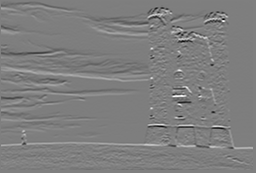
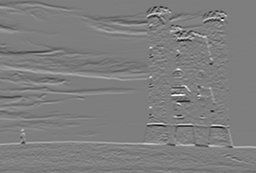
task 4 done

diff --git a/task4/seam_carving.py b/task4/seam_carving.py
@@ -84,25 +84,19 @@ def create_seam_mask(accumE):
     return Mask
 
 
-# ------------------------------------------------------------------------------
-# Main Bereich
-# ------------------------------------------------------------------------------
-if __name__ == '__main__':
+def carve(path, number_of_seams_to_remove):
     # --------------------------------------------------------------------------
     # Initalisierung
     # --------------------------------------------------------------------------
     # lädt das Bild
-    img = mpimage.imread('bilder/tower.jpg')  # 'bilder/bird.jpg')
+    img = mpimage.imread('bilder/{}.jpg'.format(path))  # 'bilder/bird.jpg')
     # erstellt eine globale Maske
     # In der Maske sollen alle Pfade gespeichert werden die herrausgeschnitten wurden
     # An Anfang ist noch nichts herrausgeschnitten, also ist die Maske komplett False
     global_mask = np.zeros((img.shape[0], img.shape[1]), dtype=bool)
 
-
     # Parameter einstellen:
     # Tipp: hier number_of_seams_to_remove am Anfang einfach mal auf 1 setzen
-    number_of_seams_to_remove = 10
-
     # erstellet das neue Bild, welches verkleinert wird
     new_img = np.array(img, copy=True)
     copy_img = np.array(img, copy=True)
@@ -112,7 +106,6 @@ if __name__ == '__main__':
     # --------------------------------------------------------------------------
     # Für jeden Seam, der entfernt werden soll:
     for idx in range(number_of_seams_to_remove):
-        ...
         # Aufgabe 1:
         # 1.1 Berechnen Sie die Gradientenlängen des Eingabe Bildes
         # und nutzen Sie diese als Energie-Werte. Sie können dazu Ihre Funktion
@@ -121,12 +114,13 @@ if __name__ == '__main__':
         #               energy = magnitude_of_gradients(new_img)
         # Tipp: Als Test wäre eine einfache Matrix hilfreich:
         energy = magnitude_of_gradients(new_img)
+
         # Aufgabe 2:
+
         # 2.1 Implementieren Sie die Funktion calculate_accum_energy.
         # Sie soll gegeben eine Energy-Matrix die akkumulierten Energien berechnen.
         # Codebeispiel:
         accumE = calculate_accum_energy(energy)
-
         # Aufgabe 3:
         # 3.1 Implementieren Sie die Funktion create_seam_mask.
         # Sie soll gegeben einer akkumulierten Energie-matrix einen Pfad finden,
@@ -149,21 +143,27 @@ if __name__ == '__main__':
 
         new_img = seam_carve(new_img, seam_mask)
         # Aufgabe 5:
-        # 5.1 TODO: Updaten Sie die globale Maske mit dem aktuellen Seam (update_global_mask).
+        # 5.1 Updaten Sie die globale Maske mit dem aktuellen Seam (update_global_mask).
         global_mask = update_global_mask(global_mask, seam_mask)
-        print(global_mask)
-        # 5.2 TODO: Kopieren Sie das Originalbild und färben Sie alle Pfade, die bisher
-        #            entfert wurden, rot mithilfe der globalen Maske
+        # 5.2 Kopieren Sie das Originalbild und färben Sie alle Pfade, die bisher entfert wurden, rot mithilfe der globalen Maske
         # Codebeispiel:
         copy_img[global_mask, :] = [255, 0, 0]
         # Aufgabe 6:
-        # 6.1 TODO: Speichere das verkleinerte Bild
-        mpimage.imsave("1.png", copy_img, )
-        mpimage.imsave("2.png", new_img, cmap="gray")
-        # 6.2 TODO: Speichere das Orginalbild mit allen bisher entfernten Pfaden
-
-        # 6.3 TODO: Gebe die neue Bildgröße aus:
-        # Codebeispiel:
+        # 6.1 Speichere das verkleinerte Bild
+        mpimage.imsave("smallerImg/{}{}.png".format(path, idx), new_img)
+        # 6.2 Speichere das Orginalbild mit allen bisher entfernten Pfaden
+        mpimage.imsave("removedPaths/{}{}.png".format(path, idx), copy_img)
+        # 6.3 Gebe die neue Bildgröße aus:
         print(idx, " image carved:", new_img.shape)
+    return new_img
 
-        # 6.4. TODO: Speichere das resultierende Bild nocheinmal extra.
+
+# ------------------------------------------------------------------------------
+# Main Bereich
+# ------------------------------------------------------------------------------
+if __name__ == '__main__':
+    number_of_seams_to_remove = 20
+    images = ["tower", "bird"]
+    for path in images:
+        # 6.4. Speichere das resultierende Bild nocheinmal extra.
+        mpimage.imsave("final/{}.png".format(path), carve(path, number_of_seams_to_remove))

diff --git a/task4/mog.py b/task4/mog.py
@@ -33,10 +33,9 @@ def convolution2D(img, kernel):
     x, y = np.shape(new_img)
 
     # 1.1.2 Implementieren Sie die Faltung.
-
-    for r in range(padding_x, x - (k_x - padding_x)):  # bei 1 und nicht 0 anfangen wegen padding
-        for c in range(padding_y, y - (k_y - padding_y)):
-            new_img[r, c] = np.sum(
+    for r in range(padding_x, x + padding_x):  # bei 1 und nicht 0 anfangen wegen padding
+        for c in range(padding_y, y + padding_x):
+            new_img[r - padding_x, c - padding_y] = np.sum(
                 kernel * padded_img[r - padding_x: r + k_x - padding_x, c - padding_y:c + k_y - padding_y])
     # Achtung: die Faltung (convolution) soll mit beliebig großen Kernels funktionieren.
     # Tipp: Nutzen Sie so gut es geht Numpy, sonst dauert der Algorithmus zu lange.
@@ -67,8 +66,9 @@ def magnitude_of_gradients(RGB_img):
     y_gradient = convolution2D(gray, y_Sobel)
 
     # 3.1.4 Nutzen Sie die zwei resultierenden Gradienten um die gesammt Gradientenlängen an jedem Pixel auszurechnen.
-    return np.sqrt(x_gradient ** 2, y_gradient ** 2)
-    #return np.hypot(x_gradient, y_gradient)
+    # img = np.sqrt(x_gradient ** 2, y_gradient ** 2)
+    img = np.hypot(y_gradient, x_gradient)
+    return img
 
 
 # Diese if Abfrage (if __name__ == '__main__':) sorgt dafür, dass der Code nur
@@ -96,9 +96,9 @@ if __name__ == '__main__':
     # 2.1 Definieren Sie mindestens 5 verschiedene Kernels (darunter sollten beide Sobel sein) und testen Sie sie auf dem grayscale Bild indem Sie convolution2D aufrufen.
     # 2.2 Speichern Sie alle Resultate als Bilder (sehe Tipp 2). Es sollten 5 Bilder sein.
 
-    # for kernel in kernels:
-    # gen_img = convolution2D(gray, kernel[1])
-    # mpimage.imsave("img/{}.png".format(kernel[0]), gen_img, cmap="gray")
+    for kernel in kernels:
+        gen_img = convolution2D(gray, kernel[1])
+        mpimage.imsave("img/{}.png".format(kernel[0]), gen_img, cmap="gray")
 
     # Aufgabe 3:
     # 3.1 Implementieren Sie die magnitude_of_gradients Funktion (oben) und testen Sie sie mit dem RGB Bild.
